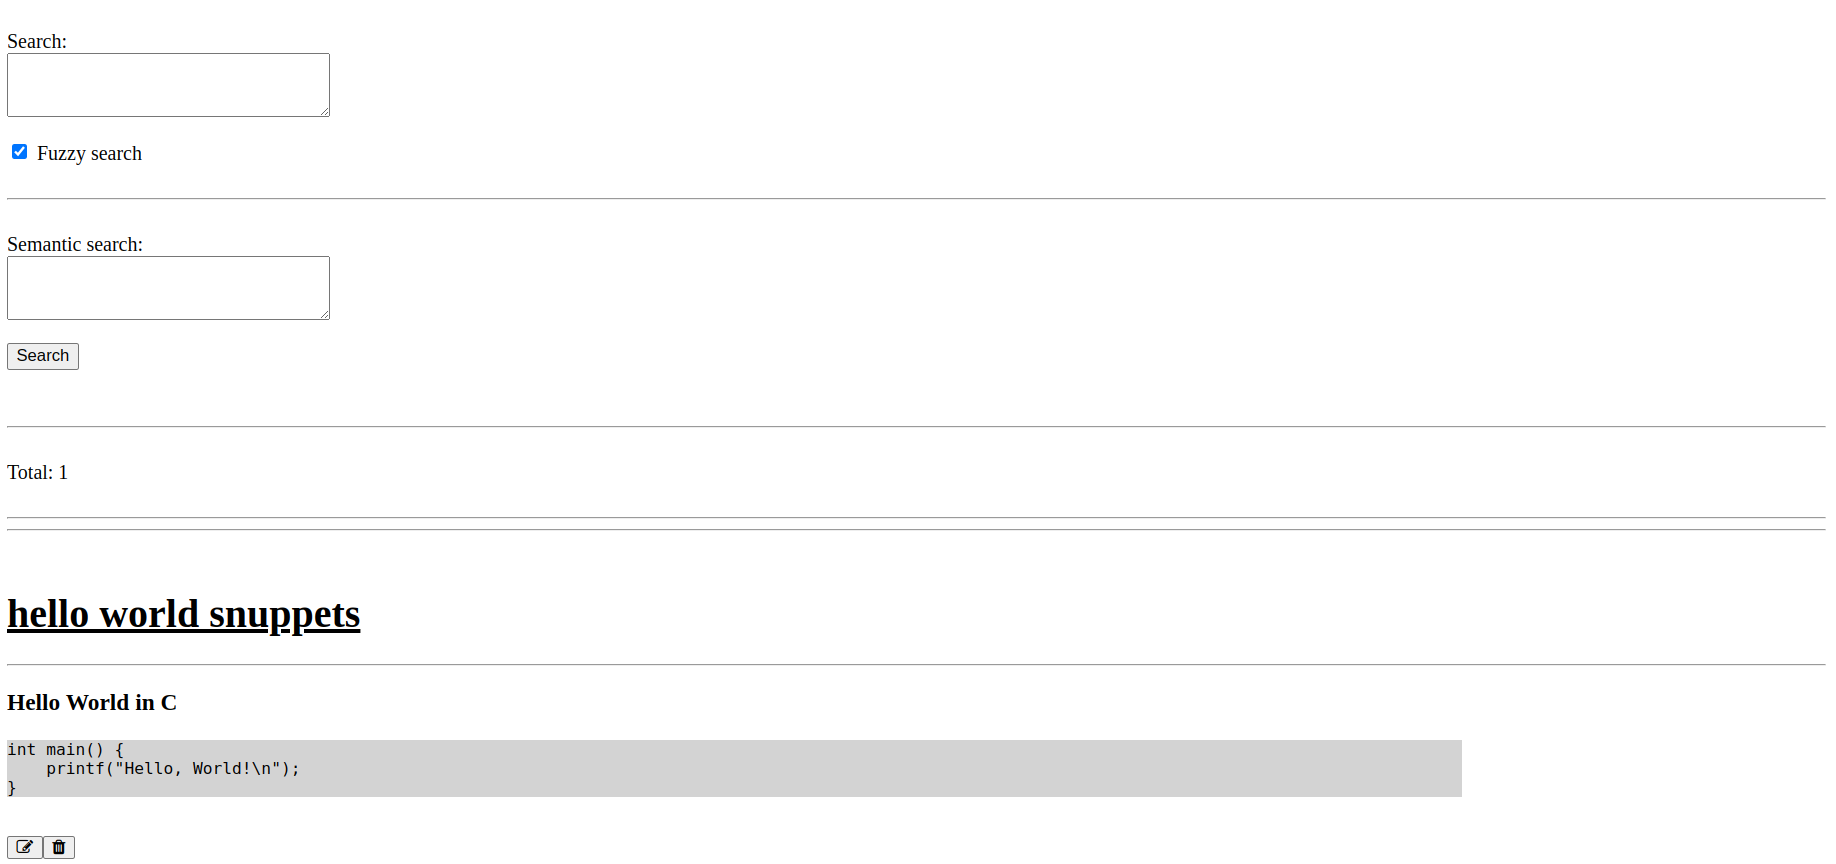
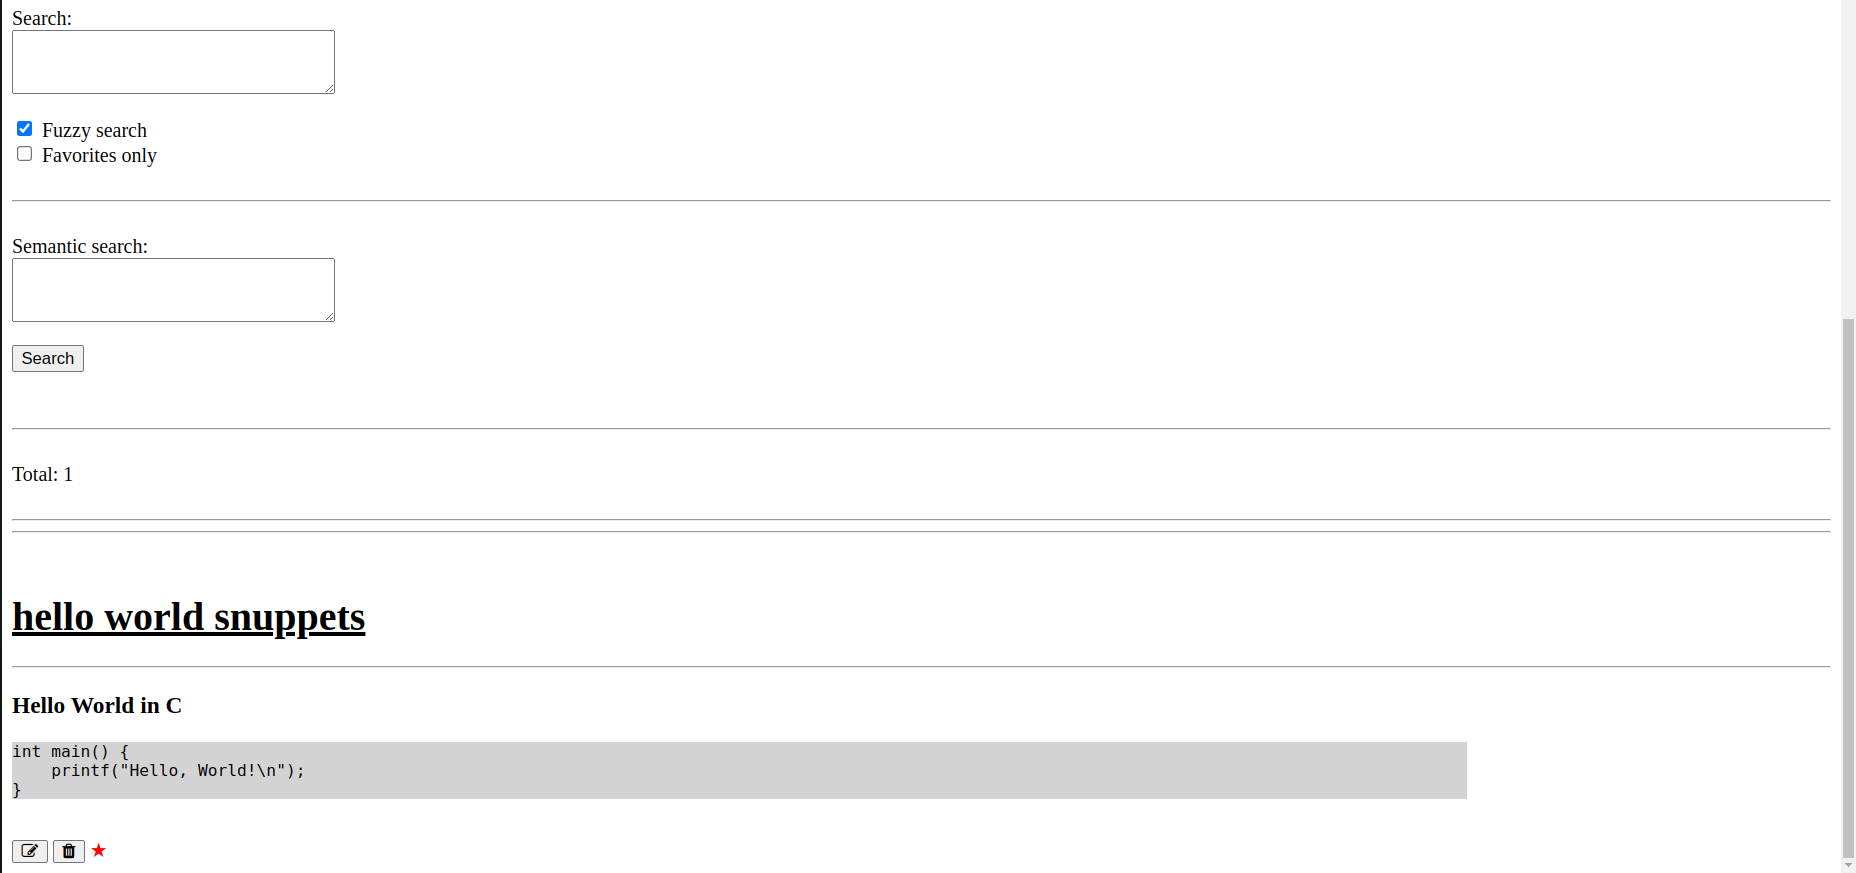
Version 1.3: support favorites

diff --git a/src/app/app_api.py b/src/app/app_api.py
@@ -12,6 +12,7 @@ from app.app_sections import CheatsheetSection
 
 INC_URL_DEFAULT = "false"
 IS_FUZZY_DEFAULT = "true"
+FAVORITES_ONLY_DEFAULT = "false"
 
 logger = logging.getLogger()
 
@@ -23,6 +24,7 @@ class Route (Enum):
     ADD_CHEATSHEET = "/add_snippet"
     EDIT_FORM = "/edit"  # edit form (GET)
     EDIT_SNIPPET = "/edit_snippet"  # edit and display all (POST)
+    TOGGLE_FAVORITED = "/toggleFavorited"
     DELETE_CHEATSHEET = "/delete_snippet"
     PREVIEW = "/preview"
     ABOUT = "/about"
@@ -56,6 +58,13 @@ def to_markdown(snippet):
         "<code>",
         '<code style="background-color:LightGray;">')
     return md_snippet
+
+
+def get_favorite_star_color(is_favorited):
+    if is_favorited:
+        return "red"
+    else:
+        return "lightgray"
 
 
 class AppAPI:
@@ -127,6 +136,10 @@ class AppAPI:
                 + fuzzy_checkbox + \
                 """
                 <label for="fuzzy"> Fuzzy search</label><br>
+
+                <input type="checkbox" id="favoritesonly">
+                <label for="favoritesonly"> Favorites only</label><br>
+
                 <br>
 
                 <script type="text/javascript">
@@ -134,17 +147,26 @@ class AppAPI:
                   {
                     patterns = document.getElementById("searchCheatsheet").value;
                     fuzzy = document.getElementById("fuzzy").checked;
+                    favorites_only = document.getElementById("favoritesonly").checked;
 
                     const xhttp = new XMLHttpRequest();
                     xhttp.onload = function() {
                       document.getElementById("cheatsheets_div").innerHTML = this.responseText;
+
+                      // eval the scripts
+                      const scripts = document.querySelectorAll('#cheatsheets_div script');
+                      scripts.forEach(script => {
+                        eval(script.textContent);
+                      });
                     }
                     xhttp.open("GET", "/snippets?pattern=" + btoa(patterns) +
-                      "&fuzzy=" + fuzzy);
+                      "&fuzzy=" + fuzzy +
+                      "&favoritesonly=" + favorites_only);
                     xhttp.send();
                   }
 
                   fuzzy.addEventListener("input", searchEvent);
+                  favoritesonly.addEventListener("input", searchEvent);
                   searchCheatsheet.addEventListener("input", searchEvent);
 
                   window.onkeydown = function(e) {
@@ -158,6 +180,16 @@ class AppAPI:
                       document.getElementById("searchCheatsheet").value = '';
                       searchEvent()
                     }
+                  }
+
+                  function toggle_favorited(cheatsheet_id)
+                  {
+                    const xhttp = new XMLHttpRequest();
+                    xhttp.onload = function() {
+                      document.getElementById("favoriteStar_" + cheatsheet_id).style.color = this.responseText;
+                    }
+                    xhttp.open("POST", "/toggleFavorited?cheatsheet_id=" + cheatsheet_id);
+                    xhttp.send();
                   }
                 </script>
             """
@@ -269,7 +301,17 @@ class AppAPI:
                         f'onclick="window.location.href=\'{Route.EDIT_FORM.value}?id={b.id}\'">' \
                         '<i class="fa fa-edit"></i></button> '
                     cheatsheets_section += f'<button class="btn" onclick="deleteCheatsheet({b.id})">' \
-                        '<i class="fa fa-trash"></i></button>'
+                        '<i class="fa fa-trash"></i></button> '
+
+                    star_color = get_favorite_star_color(b.is_favorited)
+                    cheatsheets_section += f'<span id="favoriteStar_{b.id}" style="color:{star_color}; cursor:pointer;">&#9733;</span> <!-- Star symbol -->'
+                    cheatsheets_section += '<script>' \
+                        f'document.getElementById("favoriteStar_{b.id}").addEventListener("click", function()' \
+                        '{' \
+                        f'  toggle_favorited({b.id});' \
+                        '});' \
+                      '</script>'
+
             else:
                 cheatsheets_section = \
                     f'<div style="color:red">{display_cheatsheets_section.display_cheatsheets_err}</div>'
@@ -322,7 +364,10 @@ class AppAPI:
             is_fuzzy = request.args.get("fuzzy", IS_FUZZY_DEFAULT)
             is_fuzzy = is_fuzzy.lower() == "true"
 
-            return _cheatsheets_section(self.app.display_cheatsheets(patterns, is_fuzzy))
+            favorites_only = request.args.get("favoritesonly", FAVORITES_ONLY_DEFAULT)
+            favorites_only = favorites_only.lower() == "true"
+
+            return _cheatsheets_section(self.app.display_cheatsheets(patterns, is_fuzzy, favorites_only))
 
         @self.app_api.route(Route.SEMANTIC_SEARCH.value)
         def semantic_search():
@@ -414,7 +459,10 @@ class AppAPI:
             is_fuzzy = request.args.get("fuzzy", IS_FUZZY_DEFAULT)
             is_fuzzy = is_fuzzy.lower() == "true"
 
-            return _main_page(None, self.app.display_cheatsheets(patterns, is_fuzzy), None)
+            favorites_only = request.args.get("favoritesonly", FAVORITES_ONLY_DEFAULT)
+            favorites_only = favorites_only.lower() == "true"
+
+            return _main_page(None, self.app.display_cheatsheets(patterns, is_fuzzy, favorites_only), None)
 
         @self.app_api.route(Route.ADD_CHEATSHEET.value, methods=["POST"])
         def add_cheatsheet():
@@ -446,7 +494,7 @@ class AppAPI:
             cheatsheet_id = request.args.get("id")
             cheatsheet = self.app.edit_cheatsheet_form(cheatsheet_id)
             if not cheatsheet:
-                return _main_page(None, self.app.display_cheatsheets(None, False), None)
+                return _main_page(None, self.app.display_cheatsheets(None, False, False), None)
 
             return _display_edit_form(cheatsheet.snippet, cheatsheet.section, cheatsheet_id, None)
 
@@ -461,6 +509,12 @@ class AppAPI:
             if not status_section.success:
                 return _display_edit_form(snippet, section, snippet_id, status_section)
             return _main_page(status_section, display_cheatsheets_section, cheatsheet_section)
+
+        @self.app_api.route(Route.TOGGLE_FAVORITED.value, methods=["POST"])
+        def toggle_facorited():
+            cheatsheet_id = request.args.get("cheatsheet_id")
+            is_favorited = self.app.toggle_favorited(cheatsheet_id)
+            return get_favorite_star_color(is_favorited)
 
         @self.app_api.route(Route.DELETE_CHEATSHEET.value, methods=["POST"])
         def delete_cheatsheet():

diff --git a/src/data/sqlite.py b/src/data/sqlite.py
@@ -18,6 +18,7 @@ def record_to_json(record):
         "id": record[0],
         "section": record[1],
         "snippet": record[2],
+        "is_favorited": bool(record[3]),
     }
 
 
@@ -27,6 +28,7 @@ class Sqlite:
         logger.info("DB filename = %s", self.db_filename)
 
         self._create_tables_if_not_exists()
+        self._migrate_db()
 
     def _connect(self):
         conn = sqlite3.connect(self.db_filename)
@@ -43,10 +45,42 @@ class Sqlite:
             f"CREATE TABLE IF NOT EXISTS {CHEATSHEETS_TABLE} (" \
             "id integer PRIMARY KEY," \
             "section text," \
-            "snippet text NOT NULL" \
+            "snippet text NOT NULL," \
+            "is_favorited BOOLEAN NOT NULL" \
             ");"
         cursor.execute(cheatsheets_table)
         Sqlite._close(conn)
+
+    def _migrate_db(self):
+        """Migrate the DB tabke if needed.
+
+        A 'is_favorited' column was added. This function checks
+        if it's missing and creates it with 'false' values.
+        """
+        if self._does_column_exist("is_favorited"):
+            return
+
+        logger.info("'is_favorited' is missing - creating it")
+
+        conn, cursor = self._connect()
+        cursor.execute(f"ALTER TABLE {CHEATSHEETS_TABLE} ADD COLUMN is_favorited BOOLEAN")
+        cursor.execute(f"UPDATE {CHEATSHEETS_TABLE} SET is_favorited=False;");
+        Sqlite._close(conn)
+
+    def _does_column_exist(self, column_name):
+        conn, cursor = self._connect()
+
+        column_exists = False
+
+        cursor.execute(f"PRAGMA table_info({CHEATSHEETS_TABLE})")
+        columns = cursor.fetchall()
+        for column in columns:
+            if column[1] == column_name:
+                column_exists = True
+                break
+
+        Sqlite._close(conn)
+        return column_exists
 
     def read_all_cheatsheets(self):
         """
@@ -86,12 +120,13 @@ class Sqlite:
         Sqlite._close(conn)
         return cheatsheet
 
-    def add_cheatsheet(self, snippet, section):
+    def add_cheatsheet(self, snippet, section, is_favorited):
         conn, cursor = self._connect()
         try:
-            cursor.execute(f"INSERT INTO {CHEATSHEETS_TABLE} (section, snippet) "
+            cursor.execute(f"INSERT INTO {CHEATSHEETS_TABLE} (section, snippet, is_favorited) "
                            f"VALUES ('{sql_escape(section)}', "
-                           f"'{sql_escape(snippet)}');")
+                           f"'{sql_escape(snippet)}', "
+                           f"{is_favorited});")
         finally:
             Sqlite._close(conn)
 
@@ -102,6 +137,24 @@ class Sqlite:
                            f"SET section='{sql_escape(section)}', "
                            f"snippet='{sql_escape(snippet)}' "
                            f"WHERE id={snippet_id};")
+        finally:
+            Sqlite._close(conn)
+
+    def toggle_favorited(self, cheatsheet_id):
+        cheatsheet = self.read_cheatsheet(cheatsheet_id)
+
+        was_favorited = cheatsheet["is_favorited"]
+        new_state = not was_favorited
+
+        conn, cursor = self._connect()
+        try:
+            cursor.execute(f"UPDATE {CHEATSHEETS_TABLE} "
+                           f"SET "
+                           f"is_favorited={new_state} "
+                           f"WHERE id={cheatsheet_id};")
+            return new_state
+        except Exception:
+            return not new_state
         finally:
             Sqlite._close(conn)
 

diff --git a/src/app/app.py b/src/app/app.py
@@ -23,17 +23,18 @@ class App:
     def __init__(self, server):
         self.server = server
 
-    def display_cheatsheets(self, patterns, is_fuzzy):
+    def display_cheatsheets(self, patterns, is_fuzzy, favorites_only):
         """
         Args:
             pattern (str | None): a pattern to filter results
             is_fuzzy (bool): whether to perform a fuzzy search or regular search
+            favorites_only (bool): wjetjer to filter favorited cheatsheets
 
         Returns:
             display_cheatsheets_section: DisplayCheatsheetsSection object
         """
         try:
-            cheatsheets = self.server.get_cheatsheets(patterns, is_fuzzy)
+            cheatsheets = self.server.get_cheatsheets(patterns, is_fuzzy, favorites_only)
             return DisplayCheatsheetsSection(cheatsheets, None)
         except InternalException:
             return DisplayCheatsheetsSection(None, GET_CHEATSHEETS_ERR_MSG)
@@ -63,7 +64,7 @@ class App:
             None, None
         )
 
-        return status_section, self.display_cheatsheets(None, None), escaped_cheatsheets_section
+        return status_section, self.display_cheatsheets(None, None, None), escaped_cheatsheets_section
 
     def edit_cheatsheet_form(self, cheatsheet_id):
         return self.server.get_cheatsheet(cheatsheet_id)
@@ -93,7 +94,10 @@ class App:
             None
         )
 
-        return status_section, self.display_cheatsheets(None, None), escaped_cheatsheets_section
+        return status_section, self.display_cheatsheets(None, None, None), escaped_cheatsheets_section
+
+    def toggle_favorited(self, cheatsheet_id):
+        return self.server.toggle_favorited(cheatsheet_id)
 
     def delete_cheatsheet(self, cheatsheet_id):
         if self.server.delete_cheatsheet(cheatsheet_id):
@@ -102,4 +106,4 @@ class App:
             logger.error("failed to delete cheatsheet %s", cheatsheet_id)
             status_section = StatusSection(False, DELETE_CHEATSHEET_ERR_MSG)
 
-        return status_section, self.display_cheatsheets(None, None)
+        return status_section, self.display_cheatsheets(None, None, None)

diff --git a/src/server/server.py b/src/server/server.py
@@ -47,8 +47,12 @@ class Server:
         self._cache = cheatsheets
         return self._cache
 
-    def get_cheatsheets(self, patterns, is_fuzzy):
+    def get_cheatsheets(self, patterns, is_fuzzy, favorites_only):
         cheatsheets = self._get_all_cheatsheets()
+
+        if favorites_only:
+            cheatsheets = [c for c in cheatsheets if c.is_favorited]
+
         if not patterns:
             return cheatsheets
 
@@ -87,7 +91,7 @@ class Server:
             raise SnippetRequiredException()
 
         try:
-            self.db.add_cheatsheet(snippet, section)
+            self.db.add_cheatsheet(snippet, section, False)
             logger.info("cheatsheet added successfully")
         except Exception as e:
             logger.exception("failed to add cheatsheet to db: snippet=%s, section=%s", snippet, section)
@@ -126,6 +130,11 @@ class Server:
             logger.exception("failed to update cheatsheet in db: snippet_id=%s, snippet=%s, section=%s",
                              snippet_id, snippet, section)
             raise InternalException() from e
+
+    def toggle_favorited(self, cheatsheet_id):
+        self._invalidate_cache()
+
+        return self.db.toggle_favorited(cheatsheet_id)
 
     def delete_cheatsheet(self, cheatsheet_id):
         """

diff --git a/src/server/cheatsheet.py b/src/server/cheatsheet.py
@@ -34,13 +34,15 @@ class Cheatsheet:
             j["id"],
             j["snippet"],
             section,
+            j["is_favorited"],
         )
 
     # pylint: disable=R0913 (too-many-arguments)
-    def __init__(self, cheatsheet_id, snippet, section):
+    def __init__(self, cheatsheet_id, snippet, section, is_favorited):
         self.id = cheatsheet_id
         self.snippet = snippet if snippet else ""
         self.section = section.lower() if section else ""  # section always lower case
+        self.is_favorited = is_favorited
 
         # don't be sensitive around / separators
         sub_sections = self.section.split("/")

diff --git a/src/server/test_cheatsheet.py b/src/server/test_cheatsheet.py
@@ -11,7 +11,7 @@ class TestFuzzySearch:
         cheatsheets = []
         for v in values:
             cheatsheets.append(
-                Cheatsheet(1, "", v),
+                Cheatsheet(1, "", v, False),
             )
         cheatsheets.sort()
         for v, b in zip(sorted_values, cheatsheets):
@@ -21,7 +21,7 @@ class TestFuzzySearch:
         cheatsheets = []
         for v in values:
             cheatsheets.append(
-                Cheatsheet(1, v, ""),
+                Cheatsheet(1, v, "", False),
             )
         cheatsheets.sort()
         for v, b in zip(sorted_values, cheatsheets):

diff --git a/src/tests/test_e2e_base.py b/src/tests/test_e2e_base.py
@@ -68,7 +68,7 @@ class TestE2eBase:
     def _add_cheatsheet_to_db(self, snippet, section):
         db_filename = Path(OUTPUT_DIR, DB_FILENAME)
         db = Sqlite(db_filename)
-        db.add_cheatsheet(snippet, section)
+        db.add_cheatsheet(snippet, section, False)
 
     def _count_cheatsheets_in_db(self):
         db_filename = Path(OUTPUT_DIR, DB_FILENAME)

diff --git a/src/utils/version.py b/src/utils/version.py
@@ -4,7 +4,7 @@ from utils import paths
 
 
 MAJOR = 1
-MINOR = 2
+MINOR = 3
 
 
 def get_patch():
